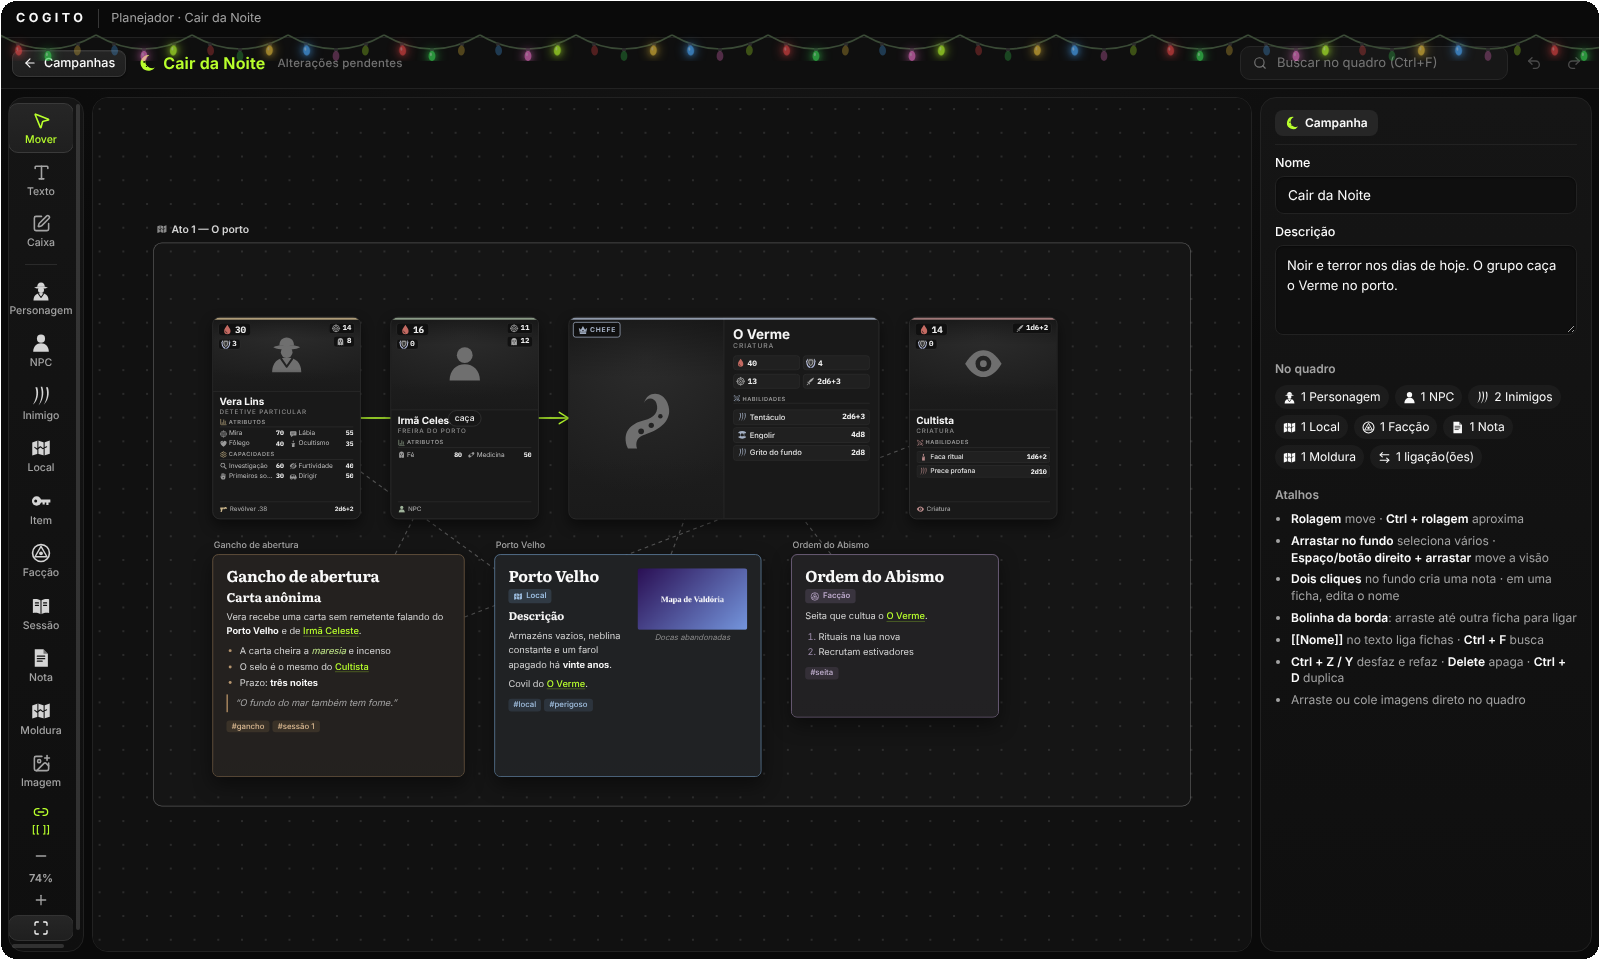
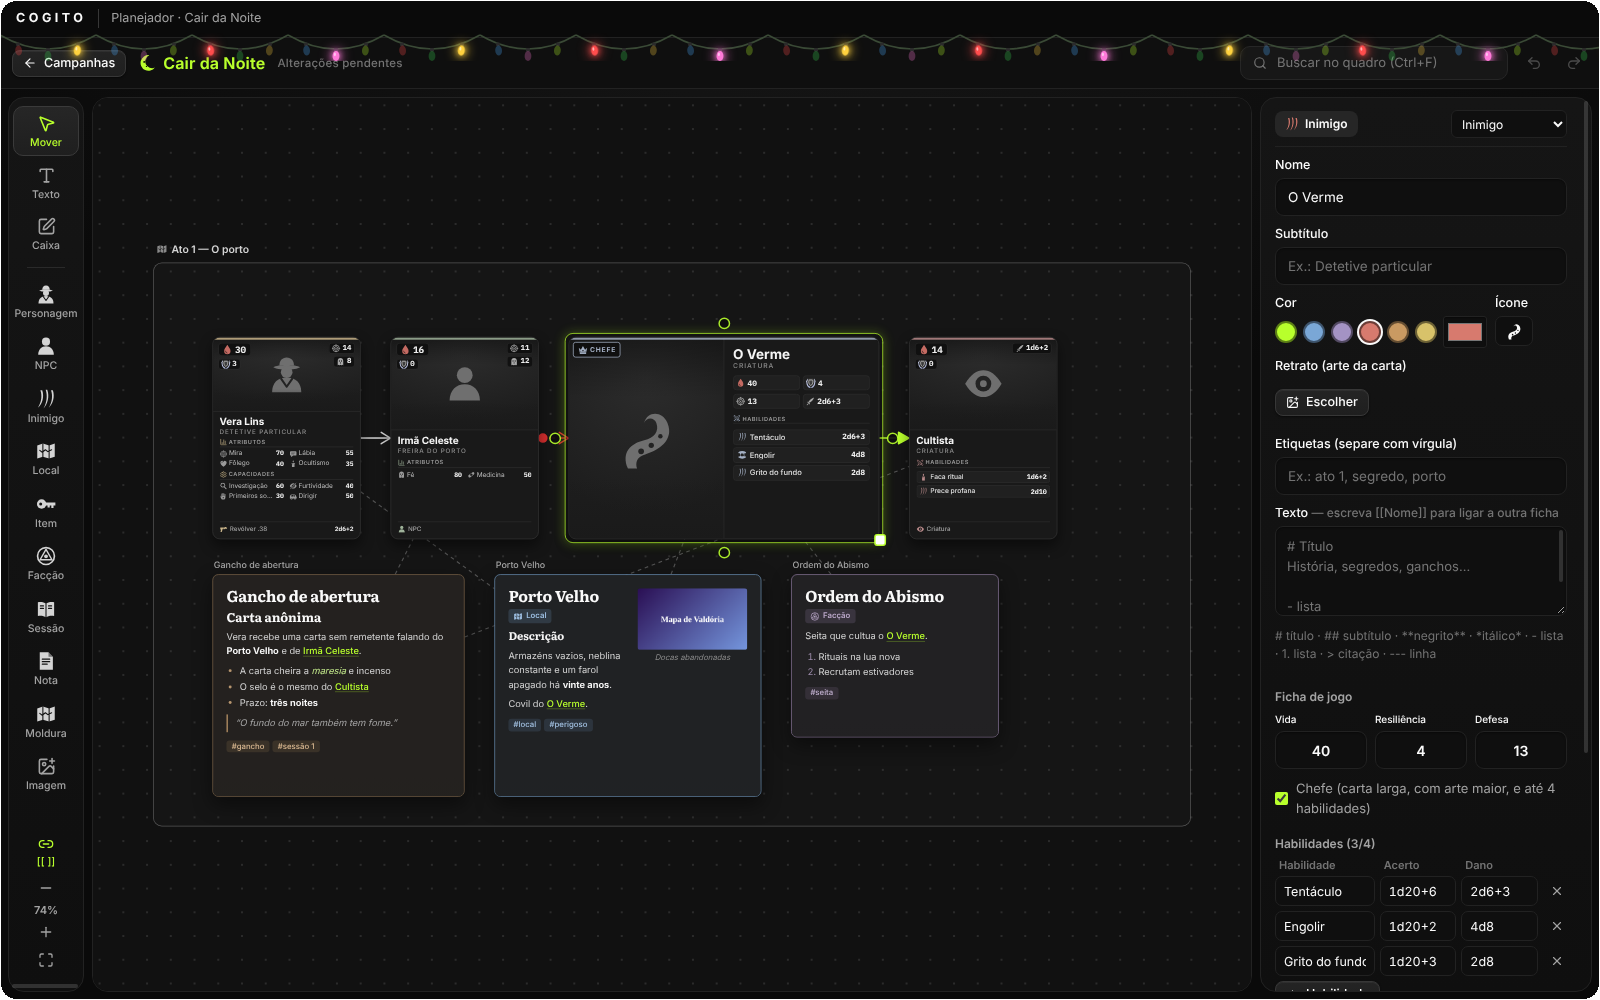
Capturas novas das três áreas na página do repositório
- Escritor em duas páginas, quadro da campanha com o chefe selecionado e
  o Bestiário, todos na interface 0.16, cada um com imagem grande.
- Cartas do quadro vistas de perto, com as ligações novas.
- Remove capturas antigas que não eram mais usadas.

Claude-Session: https://claude.ai/code/session_011ceHqBBtCoSwuxM365Q6NP

diff --git a/README.md b/README.md
@@ -99,7 +99,7 @@ As cartas de personagem, NPC e criatura do Planejador ficaram mais discretas: fu
 e um ícone em cada número, atributo e capacidade. O **chefe** virou uma carta larga, do tamanho de duas, com a arte
 maior. Campanhas antigas se ajustam sozinhas, e o que estava ao lado do chefe abre espaço para ele.
 
-<img src="docs/screenshots/quadro.png" alt="Quadro com cartas de personagem, NPC, criatura e o chefe em carta larga" width="100%">
+<img src="docs/screenshots/planejador-cartas.png" alt="Cartas de personagem, NPC e criatura no quadro, com o chefe em carta larga" width="100%">
 
 ### Contador de páginas
 
@@ -119,28 +119,28 @@ movimento do Windows ligada, elas ficam paradas.
 
 ## As três áreas
 
-<table>
-  <tr>
-    <td width="33%" valign="top">
-      <img src="docs/screenshots/escritor.png" alt="Escritor" width="100%"><br>
-      <b>Escritor</b><br>
-      <sub>Livros diagramados página a página, com capítulos, sumário automático, tabelas com fórmulas, formas, fichas e
-      blocos de criatura. Exporta em PDF e DOCX com as fontes embutidas.</sub>
-    </td>
-    <td width="33%" valign="top">
-      <img src="docs/screenshots/campanhas.png" alt="Planejador de Campanhas" width="100%"><br>
-      <b>Planejador de Campanhas</b><br>
-      <sub>Um quadro infinito por campanha: fichas de jogo, locais, facções, sessões, notas em Markdown e links
-      <code>[[assim]]</code> entre tudo.</sub>
-    </td>
-    <td width="33%" valign="top">
-      <img src="docs/screenshots/cacada-mesa.png" alt="Bestiário" width="100%"><br>
-      <b>Bestiário</b><br>
-      <sub>Combate em turnos sobre uma mesa de investigador. Você escreve o que o personagem faz; as criaturas sempre
-      procuram o golpe mais letal.</sub>
-    </td>
-  </tr>
-</table>
+### Escritor
+
+Livros diagramados página a página, com capítulos, sumário automático, tabelas com fórmulas, tabelas de rolagem,
+formas, imagens com contorno de texto, fichas e blocos de criatura. Veja uma página ou duas lado a lado, e exporte em
+PDF e DOCX com as fontes embutidas.
+
+<img src="docs/screenshots/area-escritor.png" alt="Escritor com duas páginas lado a lado: capítulo com mapa, bloco de criatura e tabela de rolagem" width="100%">
+
+### Planejador de Campanhas
+
+Um quadro infinito por campanha. Personagens, NPCs e criaturas viram cartas com a ficha de jogo; locais, facções,
+sessões e notas viram cartões com Markdown e links <code>[[assim]]</code> entre eles. O painel da direita edita o que
+estiver selecionado.
+
+<img src="docs/screenshots/area-planejador.png" alt="Quadro da campanha Cair da Noite com o chefe selecionado e o painel de edição aberto" width="100%">
+
+### Bestiário
+
+Combate em turnos sobre uma mesa de investigador. Você escreve o que o personagem faz e o jogo entende com as armas,
+itens e habilidades da ficha. As criaturas sempre procuram o golpe mais letal.
+
+<img src="docs/screenshots/area-bestiario.png" alt="Bestiário: HUD do caçador sobre a mesa de investigador, com as criaturas em cartas" width="100%">
 
 O passo a passo de cada recurso está no **[Manual](docs/MANUAL.md)**.
 
